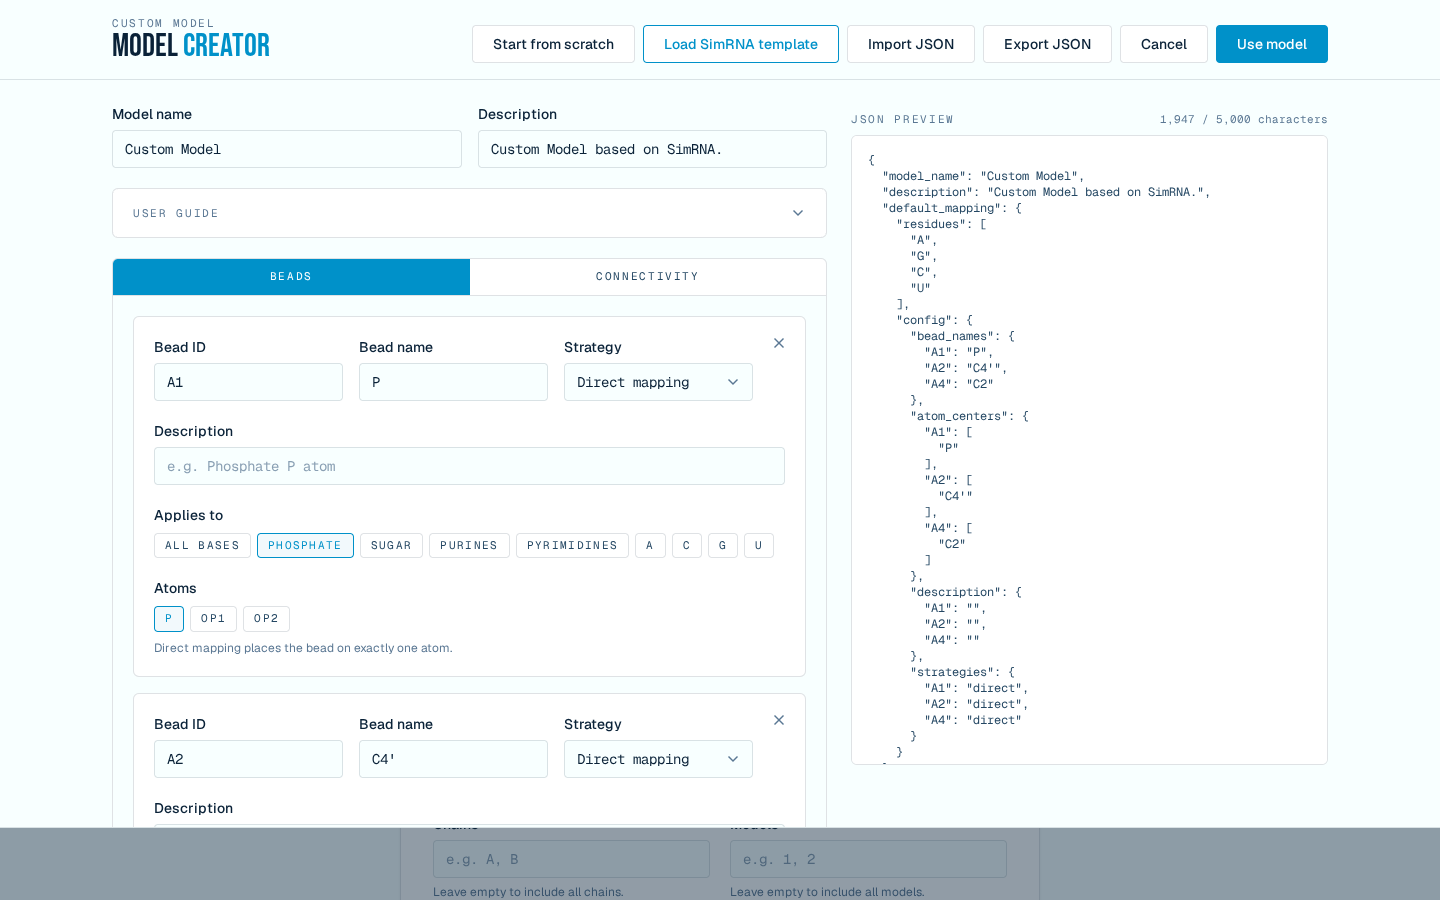
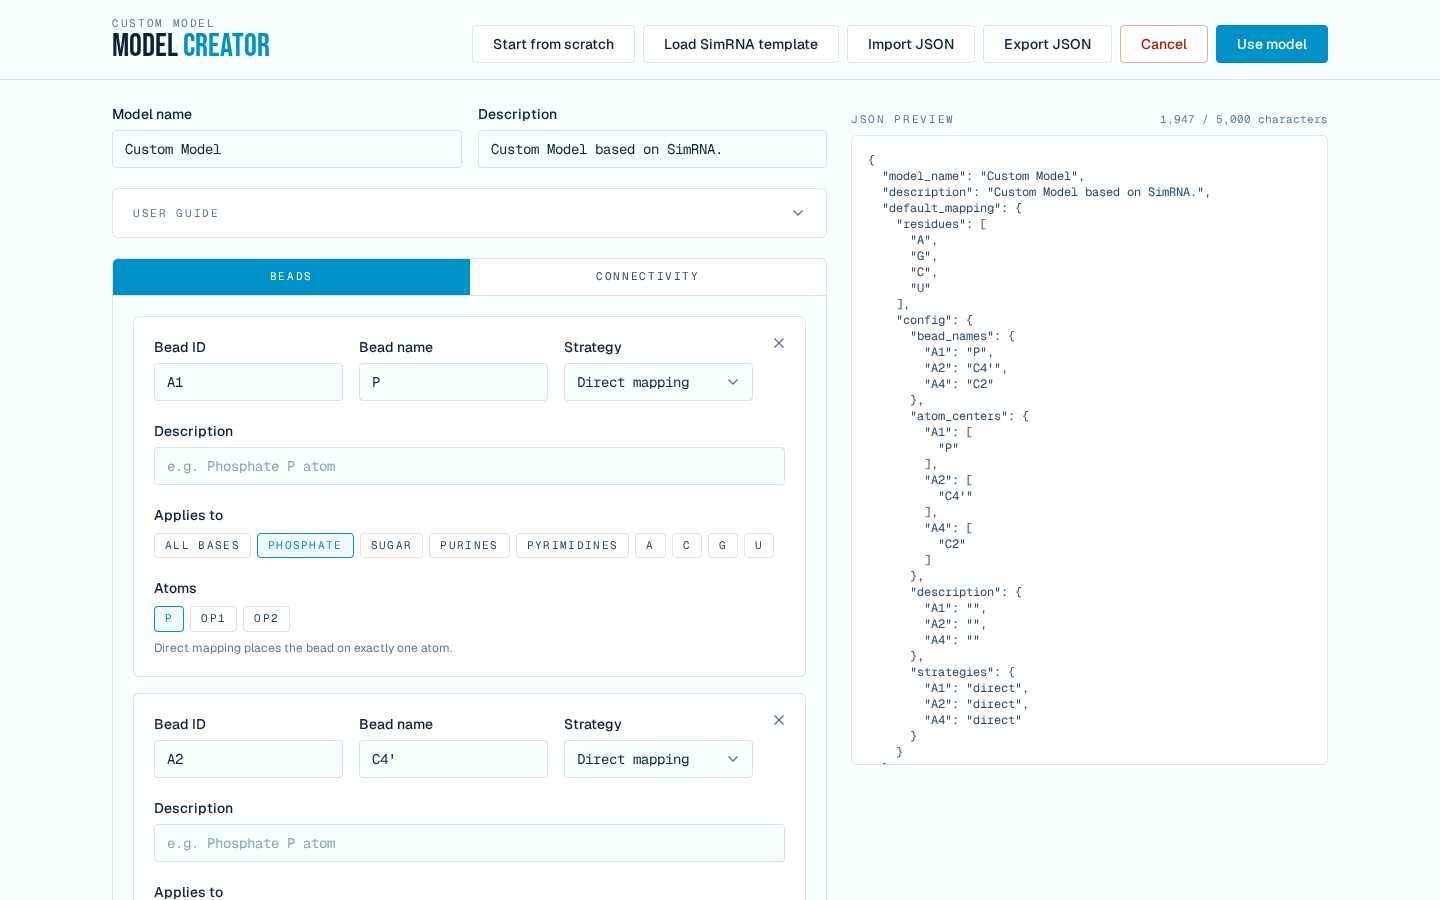
Open the model creator full page with a red Cancel button
The creator drawer now fills the whole viewport instead of leaving the
form visible under it, and Cancel uses a new danger button variant.
Retake the README screenshot of the creator.

Changed region(s): [[0.0, 0.9022, 1.0, 1.0], [0.4688, 0.0311, 0.5625, 0.0622], [0.7812, 0.0311, 0.8125, 0.0622]]

diff --git a/frontend/src/components/ui/Button.tsx b/frontend/src/components/ui/Button.tsx
@@ -2,12 +2,13 @@ import type { ButtonHTMLAttributes } from "react";
 
 import { cn } from "@/lib/cn";
 
-type ButtonVariant = "primary" | "ghost";
+type ButtonVariant = "primary" | "ghost" | "danger";
 
 const VARIANT_CLASSES: Record<ButtonVariant, string> = {
   primary:
     "border-accent bg-accent text-white hover:border-accent-hover hover:bg-accent-hover",
   ghost: "border-line-soft bg-white text-ink hover:border-accent hover:text-accent",
+  danger: "border-red/40 bg-white text-red-deep hover:border-red hover:bg-red/5",
 };
 
 function buttonClasses(variant: ButtonVariant): string {

diff --git a/frontend/src/components/ui/Drawer.tsx b/frontend/src/components/ui/Drawer.tsx
@@ -30,7 +30,7 @@ export function Drawer({ open, labelledBy, onClose, children }: DrawerProps) {
       onClick={(event) => {
         if (event.target === event.currentTarget) onClose();
       }}
-      className="m-0 h-auto max-h-[92dvh] w-full max-w-none overflow-y-auto border-b border-line-soft bg-surface p-0 text-ink-2 backdrop:bg-ink/45"
+      className="m-0 h-dvh max-h-none w-full max-w-none overflow-y-auto bg-surface p-0 text-ink-2 backdrop:bg-ink/45"
     >
       {open && children}
     </dialog>,

diff --git a/frontend/src/features/creator/ModelCreator.tsx b/frontend/src/features/creator/ModelCreator.tsx
@@ -139,7 +139,7 @@ export function ModelCreator({
             <Button variant="ghost" disabled={tooLarge} onClick={handleExport}>
               Export JSON
             </Button>
-            <Button variant="ghost" onClick={onCancel}>
+            <Button variant="danger" onClick={onCancel}>
               Cancel
             </Button>
             <Button
